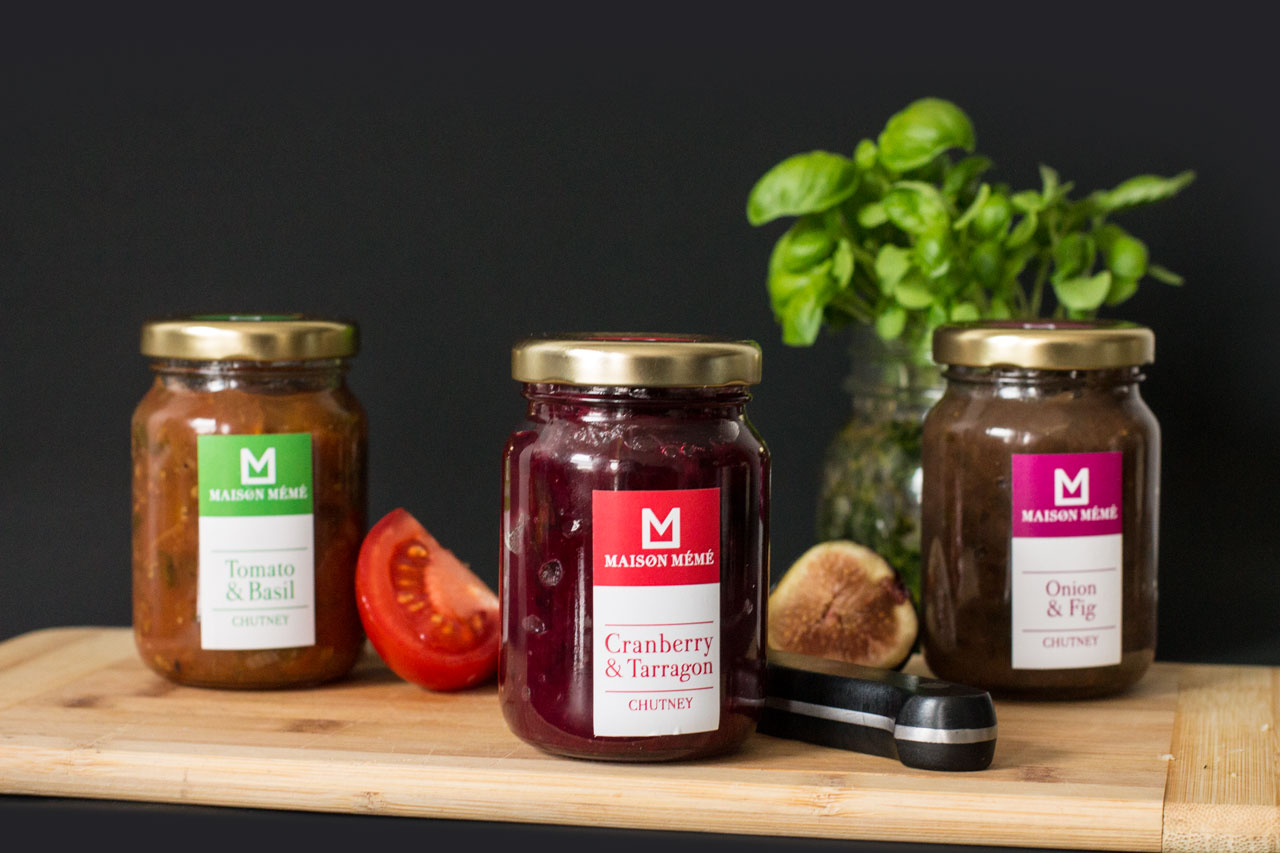
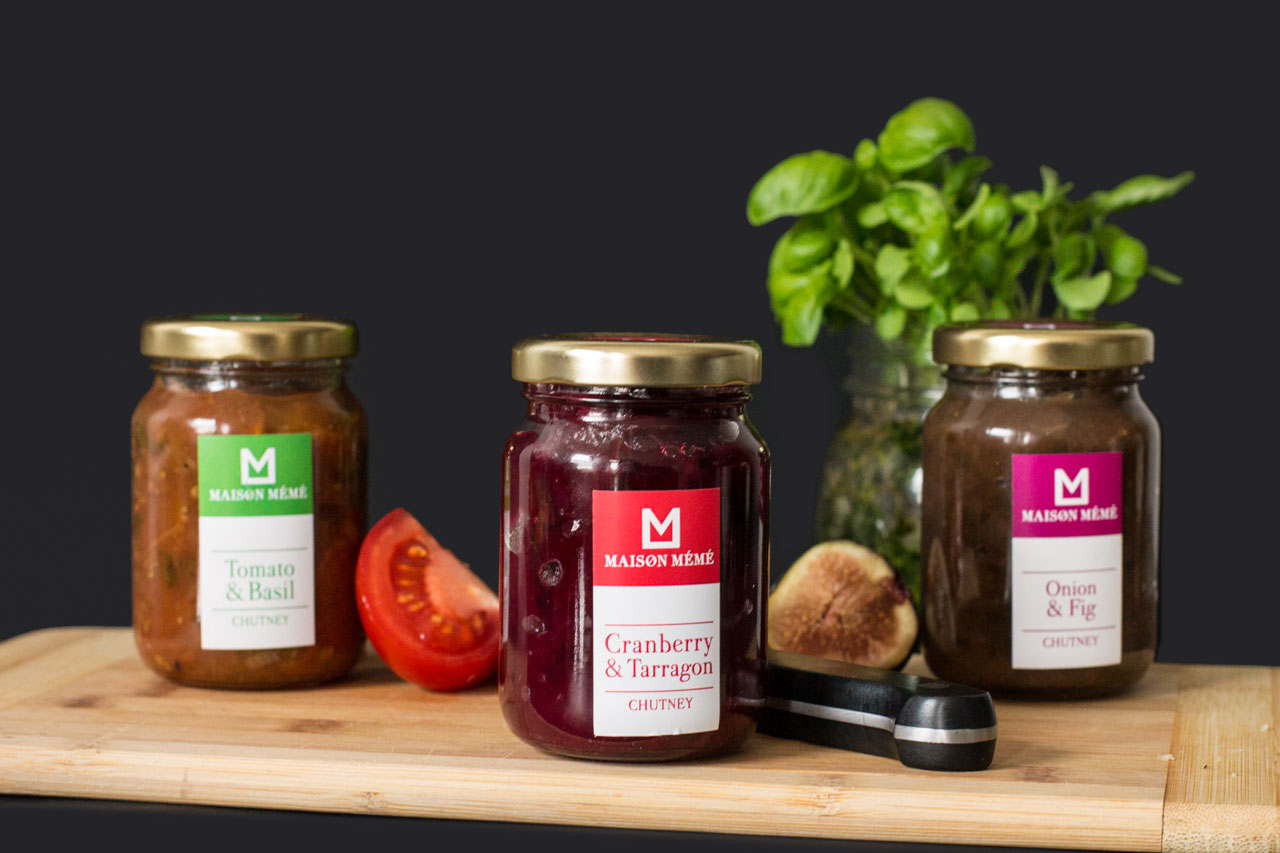
Add menu and fix pixelized image

Changed region(s): [[0.875, 0.3658, 1.0, 0.7925]]

diff --git a/css/main.css b/css/main.css
@@ -1,2 +1,2 @@
-body{background:#4d0285;color:#fff;font:300 16px "Open Sans", Helvetica, Arial;margin:0;padding:0;-webkit-font-smoothing:antialiased}a,a:visited{color:#fff;text-decoration:none}nav{background:rgba(77,2,133,0.9);color:#fff;left:0;height:52px;line-height:52px;padding:0 10px;position:fixed;right:0;text-align:center;top:0;z-index:1000}nav .hamburger{float:left;margin:10px -43px 0 0;width:43px}nav .hamburger .draw-path{-moz-animation-duration:0.5s;-webkit-animation-duration:0.5s;animation-duration:0.5s}nav .hamburger .delay-1{-moz-animation-delay:0.3s;-webkit-animation-delay:0.3s;animation-delay:0.3s}nav .hamburger .delay-2{-moz-animation-delay:0.6s;-webkit-animation-delay:0.6s;animation-delay:0.6s}nav .lang{float:right}nav #logo{display:inline-block;margin:5px 0;-moz-transform:scale(0);-ms-transform:scale(0);-webkit-transform:scale(0);transform:scale(0);-moz-transition:-moz-transform 750ms ease-in-out;-o-transition:-o-transform 750ms ease-in-out;-webkit-transition:-webkit-transform 750ms ease-in-out;transition:transform 750ms ease-in-out}nav #logo.active{-moz-transform:scale(1);-ms-transform:scale(1);-webkit-transform:scale(1);transform:scale(1)}.clearfix:after{content:"";display:table;clear:both}.block{background-attachment:fixed;background-size:cover;min-height:100vh;position:relative;text-align:center}.vcenter-outer{display:table;width:100%;height:100%}.vcenter-inner{display:table-cell;text-align:center;vertical-align:middle}.separator{position:absolute;bottom:0;left:0;right:0}.line{border-bottom:1px solid #fff;margin:0 auto;width:80px}.rotate span{display:inline-block;-moz-transition:-moz-transform 150ms;-o-transition:-o-transform 150ms;-webkit-transition:-webkit-transform 150ms;transition:transform 150ms}.rotate:hover span{-moz-transform:rotate(90deg);-ms-transform:rotate(90deg);-webkit-transform:rotate(90deg);transform:rotate(90deg)}.visit{line-height:2em;margin:30px 0 0 0}#content1{background-image:url("/images/mountains.jpg");height:100vh;min-height:55vw}#content1 h1{font-weight:400;font-size:28px;margin:10px 0;text-transform:uppercase}#content1 h1 span{margin:0 5px}#content1 h2{font-weight:300;font-size:20px;margin:10px 0}#content2 h1,#content3 h1{font-weight:400;line-height:1.25em;font-size:24px;margin:0 0 1em 0;text-align:center}#content2 h2,#content3 h2{color:#175375;font-size:28px;font-weight:400;line-height:1.15em;text-align:center}#content2 .desc,#content3 .desc{line-height:1.5em;margin:20px 0;font-weight:400;padding:0 40px}#content2{background:#37c8ca;line-height:0}#content2 .mobile,#content2 .laptop,#content2 .desktop{position:relative}#content2 .mobile img,#content2 .laptop img,#content2 .desktop img{position:relative;z-index:1}#content2 .mobile .screen,#content2 .laptop .screen,#content2 .desktop .screen{background:no-repeat center 0;-moz-background-size:cover;-o-background-size:cover;-webkit-background-size:cover;background-size:cover;position:absolute;z-index:0}#content2 .mobile .screen.animate,#content2 .laptop .screen.animate,#content2 .desktop .screen.animate{-moz-animation:scroll-up 4s 2s ease-in-out forwards;-webkit-animation:scroll-up 4s 2s ease-in-out forwards;animation:scroll-up 4s 2s ease-in-out forwards}#content2 .mobile{margin:0 auto 70px auto;max-width:10%;top:70px;z-index:10}@media only screen and (max-width: 600px){#content2 .mobile{width:200px}}#content2 .mobile .screen{background-image:url("/images/askmen-iphone6-content.jpg");bottom:15%;left:15.7%;right:15.7%;top:21.1%}@media only screen and (max-width: 600px){#content2 .mobile .screen{right:15.7%}}#content2 .laptop{bottom:20px;margin:0 auto;max-width:35%;right:10%}@media only screen and (max-width: 600px){#content2 .laptop{width:200px}}#content2 .laptop .screen{background-image:url("/images/askmen-macbook-content.jpg");bottom:16%;left:17.6%;right:17.6%;top:16.6%}@media only screen and (max-width: 600px){#content2 .laptop .screen{right:15.7%}}#content2 .desktop{margin:0 auto;max-width:40%;left:7%}@media only screen and (max-width: 600px){#content2 .desktop{max-width:200px}}#content2 .desktop .screen{background-image:url("/images/askmen-imac-content.jpg");bottom:31%;left:10%;right:10%;top:13%}@media only screen and (max-width: 600px){#content2 .desktop .screen{right:15.7%}}#content2 #content-2-mobile{margin-top:50px}#content2 #content-2-mobile .img{vertical-align:middle}#content2 #content-2-mobile img{width:100%}#content2 #content-2-mobile .img1,#content2 #content-2-mobile .img4{width:16%}#content2 #content-2-mobile .img2,#content2 #content-2-mobile .img3{margin:0 1%;width:20%}#content3{background:#232323;padding-bottom:15%}#content3 h2{color:#88bc08}#content3 .mm-logo{width:30%;margin-bottom:-11%;position:relative;z-index:2}#content3 .mm-1,#content3 .mm-2{width:100%}#content4{background:#50dcba}#content6{background-image:url("/images/mountains.jpg")}.draw-path{-moz-animation:draw-path 3s linear forwards;-webkit-animation:draw-path 3s linear forwards;animation:draw-path 3s linear forwards}@-moz-keyframes draw-path{100%{stroke-dashoffset:0}}@-webkit-keyframes draw-path{100%{stroke-dashoffset:0}}@keyframes draw-path{100%{stroke-dashoffset:0}}.float-up{display:inline-block;filter:progid:DXImageTransform.Microsoft.Alpha(Opacity=0);opacity:0;-moz-transform:translate3d(0, 20px, 0);-ms-transform:translate3d(0, 20px, 0);-webkit-transform:translate3d(0, 20px, 0);transform:translate3d(0, 20px, 0)}.float-up.animate{-moz-animation:float-up 1s ease-out forwards;-webkit-animation:float-up 1s ease-out forwards;animation:float-up 1s ease-out forwards}.float-up.large{-moz-transform:translate3d(0, 50px, 0);-ms-transform:translate3d(0, 50px, 0);-webkit-transform:translate3d(0, 50px, 0);transform:translate3d(0, 50px, 0)}@-moz-keyframes float-up{100%{opacity:1;-moz-transform:translate3d(0, 0, 0);transform:translate3d(0, 0, 0)}}@-webkit-keyframes float-up{100%{opacity:1;-webkit-transform:translate3d(0, 0, 0);transform:translate3d(0, 0, 0)}}@keyframes float-up{100%{opacity:1;-moz-transform:translate3d(0, 0, 0);-ms-transform:translate3d(0, 0, 0);-webkit-transform:translate3d(0, 0, 0);transform:translate3d(0, 0, 0)}}.delay-1{-moz-animation-delay:1s !important;-webkit-animation-delay:1s !important;animation-delay:1s !important}.delay-2{-moz-animation-delay:2s !important;-webkit-animation-delay:2s !important;animation-delay:2s !important}.delay-3{-moz-animation-delay:3s !important;-webkit-animation-delay:3s !important;animation-delay:3s !important}@-moz-keyframes scroll-up{0%{background-position:center 0}50%{background-position:center 100%}100%{background-position:center 0}}@-webkit-keyframes scroll-up{0%{background-position:center 0}50%{background-position:center 100%}100%{background-position:center 0}}@keyframes scroll-up{0%{background-position:center 0}50%{background-position:center 100%}100%{background-position:center 0}}
+html.nav-open{overflow:hidden}body{background:#4d0285;color:#fff;font:300 16px "Open Sans", Helvetica, Arial;margin:0;padding:0;-webkit-font-smoothing:antialiased}a,a:visited{color:#fff;text-decoration:none}h1{font-weight:400}nav{background:rgba(77,2,133,0.9);color:#fff;left:0;height:52px;line-height:52px;padding:0 10px;position:fixed;right:0;text-align:center;top:0;-moz-transition:height 200ms;-o-transition:height 200ms;-webkit-transition:height 200ms;transition:height 200ms;z-index:1000}nav .hamburger{cursor:pointer;float:left;margin:10px -43px 0 0;width:43px}nav .hamburger .draw-path{-moz-animation-duration:0.5s;-webkit-animation-duration:0.5s;animation-duration:0.5s}nav .hamburger .delay-1{-moz-animation-delay:0.3s;-webkit-animation-delay:0.3s;animation-delay:0.3s}nav .hamburger .delay-2{-moz-animation-delay:0.6s;-webkit-animation-delay:0.6s;animation-delay:0.6s}nav .lang{float:right}nav #logo{display:inline-block;margin:5px 0;-moz-transform:scale(0);-ms-transform:scale(0);-webkit-transform:scale(0);transform:scale(0);-moz-transition:-moz-transform 750ms ease-in-out;-o-transition:-o-transform 750ms ease-in-out;-webkit-transition:-webkit-transform 750ms ease-in-out;transition:transform 750ms ease-in-out}nav #logo.active{-moz-transform:scale(1);-ms-transform:scale(1);-webkit-transform:scale(1);transform:scale(1)}nav ul{display:none;list-style:none;margin:0 -10px;padding:0}nav ul li{margin:0;padding:0}nav ul a{display:block;font-size:22px;margin:0 -10px;-moz-transition:background 300ms;-o-transition:background 300ms;-webkit-transition:background 300ms;transition:background 300ms}nav ul a:hover{background:#954dcf}.nav-open nav{height:100%}.nav-open nav ul{display:block}.clearfix:after{content:"";display:table;clear:both}.block{background-attachment:fixed;background-size:cover;min-height:100vh;position:relative;text-align:center}.vcenter-outer{display:table;width:100%;height:100%}.vcenter-inner{display:table-cell;text-align:center;vertical-align:middle}.separator{position:absolute;bottom:0;left:0;right:0}.line{border-bottom:1px solid #fff;margin:0 auto;width:80px}.rotate span{display:inline-block;-moz-transition:-moz-transform 150ms;-o-transition:-o-transform 150ms;-webkit-transition:-webkit-transform 150ms;transition:transform 150ms}.rotate:hover span{-moz-transform:rotate(90deg);-ms-transform:rotate(90deg);-webkit-transform:rotate(90deg);transform:rotate(90deg)}.visit{line-height:2em;margin:30px 0 0 0}#content1{background-image:url("/images/mountains.jpg");height:100vh;min-height:55vw}#content1 h1{font-size:28px;margin:10px 0;text-transform:uppercase}#content1 h1 span{margin:0 5px}#content1 h2{font-weight:300;font-size:20px;margin:10px 0}#content2 h1,#content3 h1,#content5 h1{line-height:1.25em;font-size:24px;margin:0 0 1em 0;text-align:center}#content2 h2,#content3 h2,#content5 h2{color:#175375;font-size:28px;font-weight:400;line-height:1.15em;text-align:center}#content2 .desc,#content3 .desc,#content5 .desc{line-height:1.5em;margin:20px 0;font-weight:400;padding:0 40px}#content2{background:#37c8ca;line-height:0}#content2 .mobile,#content2 .laptop,#content2 .desktop{position:relative}#content2 .mobile img,#content2 .laptop img,#content2 .desktop img{position:relative;z-index:1}#content2 .mobile .screen,#content2 .laptop .screen,#content2 .desktop .screen{background:no-repeat center 0;-moz-background-size:cover;-o-background-size:cover;-webkit-background-size:cover;background-size:cover;position:absolute;z-index:0}#content2 .mobile .screen.animate,#content2 .laptop .screen.animate,#content2 .desktop .screen.animate{-moz-animation:scroll-up 4s 2s ease-in-out forwards;-webkit-animation:scroll-up 4s 2s ease-in-out forwards;animation:scroll-up 4s 2s ease-in-out forwards}#content2 .mobile{margin:0 auto 70px auto;max-width:10%;top:70px;z-index:10}@media only screen and (max-width: 600px){#content2 .mobile{width:200px}}#content2 .mobile .screen{background-image:url("/images/askmen-iphone6-content.jpg");bottom:15%;left:15.7%;right:15.7%;top:21.1%}@media only screen and (max-width: 600px){#content2 .mobile .screen{right:15.7%}}#content2 .laptop{bottom:20px;margin:0 auto;max-width:35%;right:10%}@media only screen and (max-width: 600px){#content2 .laptop{width:200px}}#content2 .laptop .screen{background-image:url("/images/askmen-macbook-content.jpg");bottom:16%;left:17.6%;right:17.6%;top:16.6%}@media only screen and (max-width: 600px){#content2 .laptop .screen{right:15.7%}}#content2 .desktop{margin:0 auto;max-width:40%;left:7%}@media only screen and (max-width: 600px){#content2 .desktop{max-width:200px}}#content2 .desktop .screen{background-image:url("/images/askmen-imac-content.jpg");bottom:31%;left:10%;right:10%;top:13%}@media only screen and (max-width: 600px){#content2 .desktop .screen{right:15.7%}}#content2 #content-2-mobile{margin-top:50px}#content2 #content-2-mobile .img{vertical-align:middle}#content2 #content-2-mobile img{width:100%}#content2 #content-2-mobile .img1,#content2 #content-2-mobile .img4{width:16%}#content2 #content-2-mobile .img2,#content2 #content-2-mobile .img3{margin:0 1%;width:20%}#content3{background:#232323;padding-bottom:15%}#content3 h2{color:#88bc08}#content3 .mm-logo{width:30%;margin-bottom:-11%;position:relative;z-index:2}#content3 .mm-1,#content3 .mm-2{width:100%}#content4{background:#50dcba}#content5{background-image:url("/images/mountains.jpg")}#content5 h2{color:#fff}.draw-path{-moz-animation:draw-path 3s linear forwards;-webkit-animation:draw-path 3s linear forwards;animation:draw-path 3s linear forwards}@-moz-keyframes draw-path{100%{stroke-dashoffset:0}}@-webkit-keyframes draw-path{100%{stroke-dashoffset:0}}@keyframes draw-path{100%{stroke-dashoffset:0}}.float-up{display:inline-block;filter:progid:DXImageTransform.Microsoft.Alpha(Opacity=0);opacity:0;-moz-transform:translate3d(0, 20px, 0);-ms-transform:translate3d(0, 20px, 0);-webkit-transform:translate3d(0, 20px, 0);transform:translate3d(0, 20px, 0)}.float-up.animate{-moz-animation:float-up 1s ease-out forwards;-webkit-animation:float-up 1s ease-out forwards;animation:float-up 1s ease-out forwards}.float-up.large{-moz-transform:translate3d(0, 50px, 0);-ms-transform:translate3d(0, 50px, 0);-webkit-transform:translate3d(0, 50px, 0);transform:translate3d(0, 50px, 0)}@-moz-keyframes float-up{100%{opacity:1;-moz-transform:translate3d(0, 0, 0);transform:translate3d(0, 0, 0)}}@-webkit-keyframes float-up{100%{opacity:1;-webkit-transform:translate3d(0, 0, 0);transform:translate3d(0, 0, 0)}}@keyframes float-up{100%{opacity:1;-moz-transform:translate3d(0, 0, 0);-ms-transform:translate3d(0, 0, 0);-webkit-transform:translate3d(0, 0, 0);transform:translate3d(0, 0, 0)}}.delay-1{-moz-animation-delay:1s !important;-webkit-animation-delay:1s !important;animation-delay:1s !important}.delay-2{-moz-animation-delay:2s !important;-webkit-animation-delay:2s !important;animation-delay:2s !important}.delay-3{-moz-animation-delay:3s !important;-webkit-animation-delay:3s !important;animation-delay:3s !important}@-moz-keyframes scroll-up{0%{background-position:center 0}50%{background-position:center 100%}100%{background-position:center 0}}@-webkit-keyframes scroll-up{0%{background-position:center 0}50%{background-position:center 100%}100%{background-position:center 0}}@keyframes scroll-up{0%{background-position:center 0}50%{background-position:center 100%}100%{background-position:center 0}}
 /*# sourceMappingURL=main.css.map */

diff --git a/index.html b/index.html
@@ -28,8 +28,8 @@
     </head>
     <body>
         <main>
-            <nav>
-                <svg class="hamburger" xmlns="http://www.w3.org/2000/svg" xmlns:xlink="http://www.w3.org/1999/xlink" viewBox="-4 -4 43 32">
+            <nav class="navigation">
+                <svg onclick="$('html').toggleClass('nav-open')" class="hamburger" xmlns="http://www.w3.org/2000/svg" xmlns:xlink="http://www.w3.org/1999/xlink" viewBox="-4 -4 43 32">
                     <path class="draw-path" fill="none" stroke="#FFFFFF" stroke-width="4" stroke-miterlimit="10" stroke-linecap="square" stroke-dasharray="32" stroke-dashoffset="32" d="M0,0 L32,0" />
                     <path class="draw-path delay-1" fill="none" stroke="#FFFFFF" stroke-width="4" stroke-miterlimit="10" stroke-linecap="square" stroke-dasharray="32" stroke-dashoffset="32" d="M0,12 L32,12" />
                     <path class="draw-path delay-2" fill="none" stroke="#FFFFFF" stroke-width="4" stroke-miterlimit="10" stroke-linecap="square" stroke-dasharray="32" stroke-dashoffset="32" d="M0,24 L32,24" />
@@ -42,6 +42,11 @@
                 <!-- <div class="lang">
                     Fran&ccedil;ais
                 </div> -->
+                <ul>
+                    <li><a class="scrollTo" href="#portfolio">Portfolio</li>
+                    <li><a class="scrollTo" href="#passion">My Passion</li>
+                    <li><a class="scrollTo" href="#contact">Contact Me</li>
+                </ul>
             </nav>
             <div class="block" id="content1" data-stellar-background-ratio="0.5">
                 <div class="vcenter-outer">
@@ -63,11 +68,11 @@
                 </svg>
             </div>
             <div class="block" id="content2">
-                <h1>
-                    Work.
+                <h1 id="portfolio">
+                    Portfolio.
                 </h1>
                 <h2>
-                    Designer at AskMen
+                    AskMen.com
                 </h2>
                 <div class="line"></div>
                 <div class="desc">
@@ -114,8 +119,8 @@
                 <svg xmlns="http://www.w3.org/2000/svg" xmlns:xlink="http://www.w3.org/1999/xlink" viewBox="0 0 1280 200" width="100%" class="separator">
                     <path fill="#50dcba" stroke-width="0" d="M0,201 L1282,0 L1282,201 Z"/>
                 </svg>
-                <h1>
-                    Passion.
+                <h1 id="passion">
+                    My Passion.
                 </h1>
                 <h2>
                     Food is Everything
@@ -147,8 +152,10 @@
                     <path fill="#4c0085" stroke-width="0" d="M0,201 L1282,0 L1282,201 Z"/>
                 </svg>
             </div>
-            <div class="block" id="content6" data-stellar-background-ratio="0.5">
-                
+            <div class="block" id="content5" data-stellar-background-ratio="0.5">
+                <h1 id="contact">Contact Me.</h1>
+                <h2>Anthony Meneghini-Cuvillier</h2>
+                <div class="line"></div>
             </div>
         </main>
         <script src="js/vendor.bundle.js"></script>

diff --git a/css/main.scss b/css/main.scss
@@ -1,5 +1,9 @@
 @import "vars";
 
+html.nav-open {
+    overflow: hidden;
+}
+
 body {
     background: #4d0285;
     color: #fff;
@@ -14,6 +18,10 @@ a, a:visited {
     text-decoration: none;
 }
 
+h1 {
+    font-weight: 400;
+}
+
 nav {
     background: rgba(77, 2, 133, 0.9);
     color: #fff;
@@ -25,9 +33,11 @@ nav {
     right: 0;
     text-align: center;
     top: 0;
+    @include transition(height 200ms);
     z-index: 1000;
 
     .hamburger {
+        cursor: pointer;
         float: left;
         margin: 10px -43px 0 0;
         width: 43px;
@@ -48,6 +58,37 @@ nav {
         @include transition(transform 750ms ease-in-out);
         &.active {
             @include transform(scale(1));
+        }
+    }
+
+    ul {
+        display: none;
+        list-style: none;
+        margin: 0 -10px;
+        padding: 0;
+
+        li {
+            margin: 0;
+            padding: 0;
+        }
+
+        a {
+            display: block;
+            font-size: 22px;
+            margin: 0 -10px;
+            @include transition(background 300ms);
+
+            &:hover {
+                background: #954dcf
+            }
+        }
+    }
+
+    .nav-open & {
+        height: 100%;
+
+        ul {
+            display: block;
         }
     }
 }
@@ -111,7 +152,6 @@ nav {
     min-height: 55vw;
 
     h1 {
-        font-weight: 400;
         font-size: 28px;
         margin: 10px 0;
         text-transform: uppercase;
@@ -128,9 +168,8 @@ nav {
     }
 }
 
-#content2, #content3 {
+#content2, #content3, #content5 {
     h1 {
-        font-weight: 400;
         line-height: 1.25em;
         font-size: 24px;
         margin: 0 0 1em 0;
@@ -287,10 +326,11 @@ nav {
 }
 
 #content5 {
-}
-
-#content6 {
     background-image: url("/images/mountains.jpg");
+
+    h2 {
+        color: #fff;
+    }
 }
 
 .draw-path {

diff --git a/js/init.js b/js/init.js
@@ -28,6 +28,22 @@ $(function() {
         return false;
     });
 
+    $('.scrollTo').each(function() {
+        var $target = $(this);
+
+        $target.click(function() {
+            var offset = $('#' + $target.attr('href').substr(1)).offset();
+
+            $('html, body').stop().animate({
+                scrollTop: Math.max(0, offset.top - 55)
+            }, 1000, 'easeInOutCirc');
+
+            $('html').removeClass('nav-open');
+
+            return false;
+        });
+    });
+
     var content2_0 = new Waypoint({
         element: document.getElementById('content2'),
         handler: function(direction) {

diff --git a/config.rb b/config.rb
@@ -1,0 +1,25 @@
+require 'compass/import-once/activate'
+# Require any additional compass plugins here.
+
+# Set this to the root of your project when deployed:
+http_path = "/"
+css_dir = "css"
+sass_dir = "css"
+images_dir = "images"
+javascripts_dir = "js"
+
+# You can select your preferred output style here (can be overridden via the command line):
+output_style = :compressed
+
+# To enable relative paths to assets via compass helper functions. Uncomment:
+# relative_assets = true
+
+# To disable debugging comments that display the original location of your selectors. Uncomment:
+# line_comments = false
+
+
+# If you prefer the indented syntax, you might want to regenerate this
+# project again passing --syntax sass, or you can uncomment this:
+# preferred_syntax = :sass
+# and then run:
+# sass-convert -R --from scss --to sass sass scss && rm -rf sass && mv scss sass
